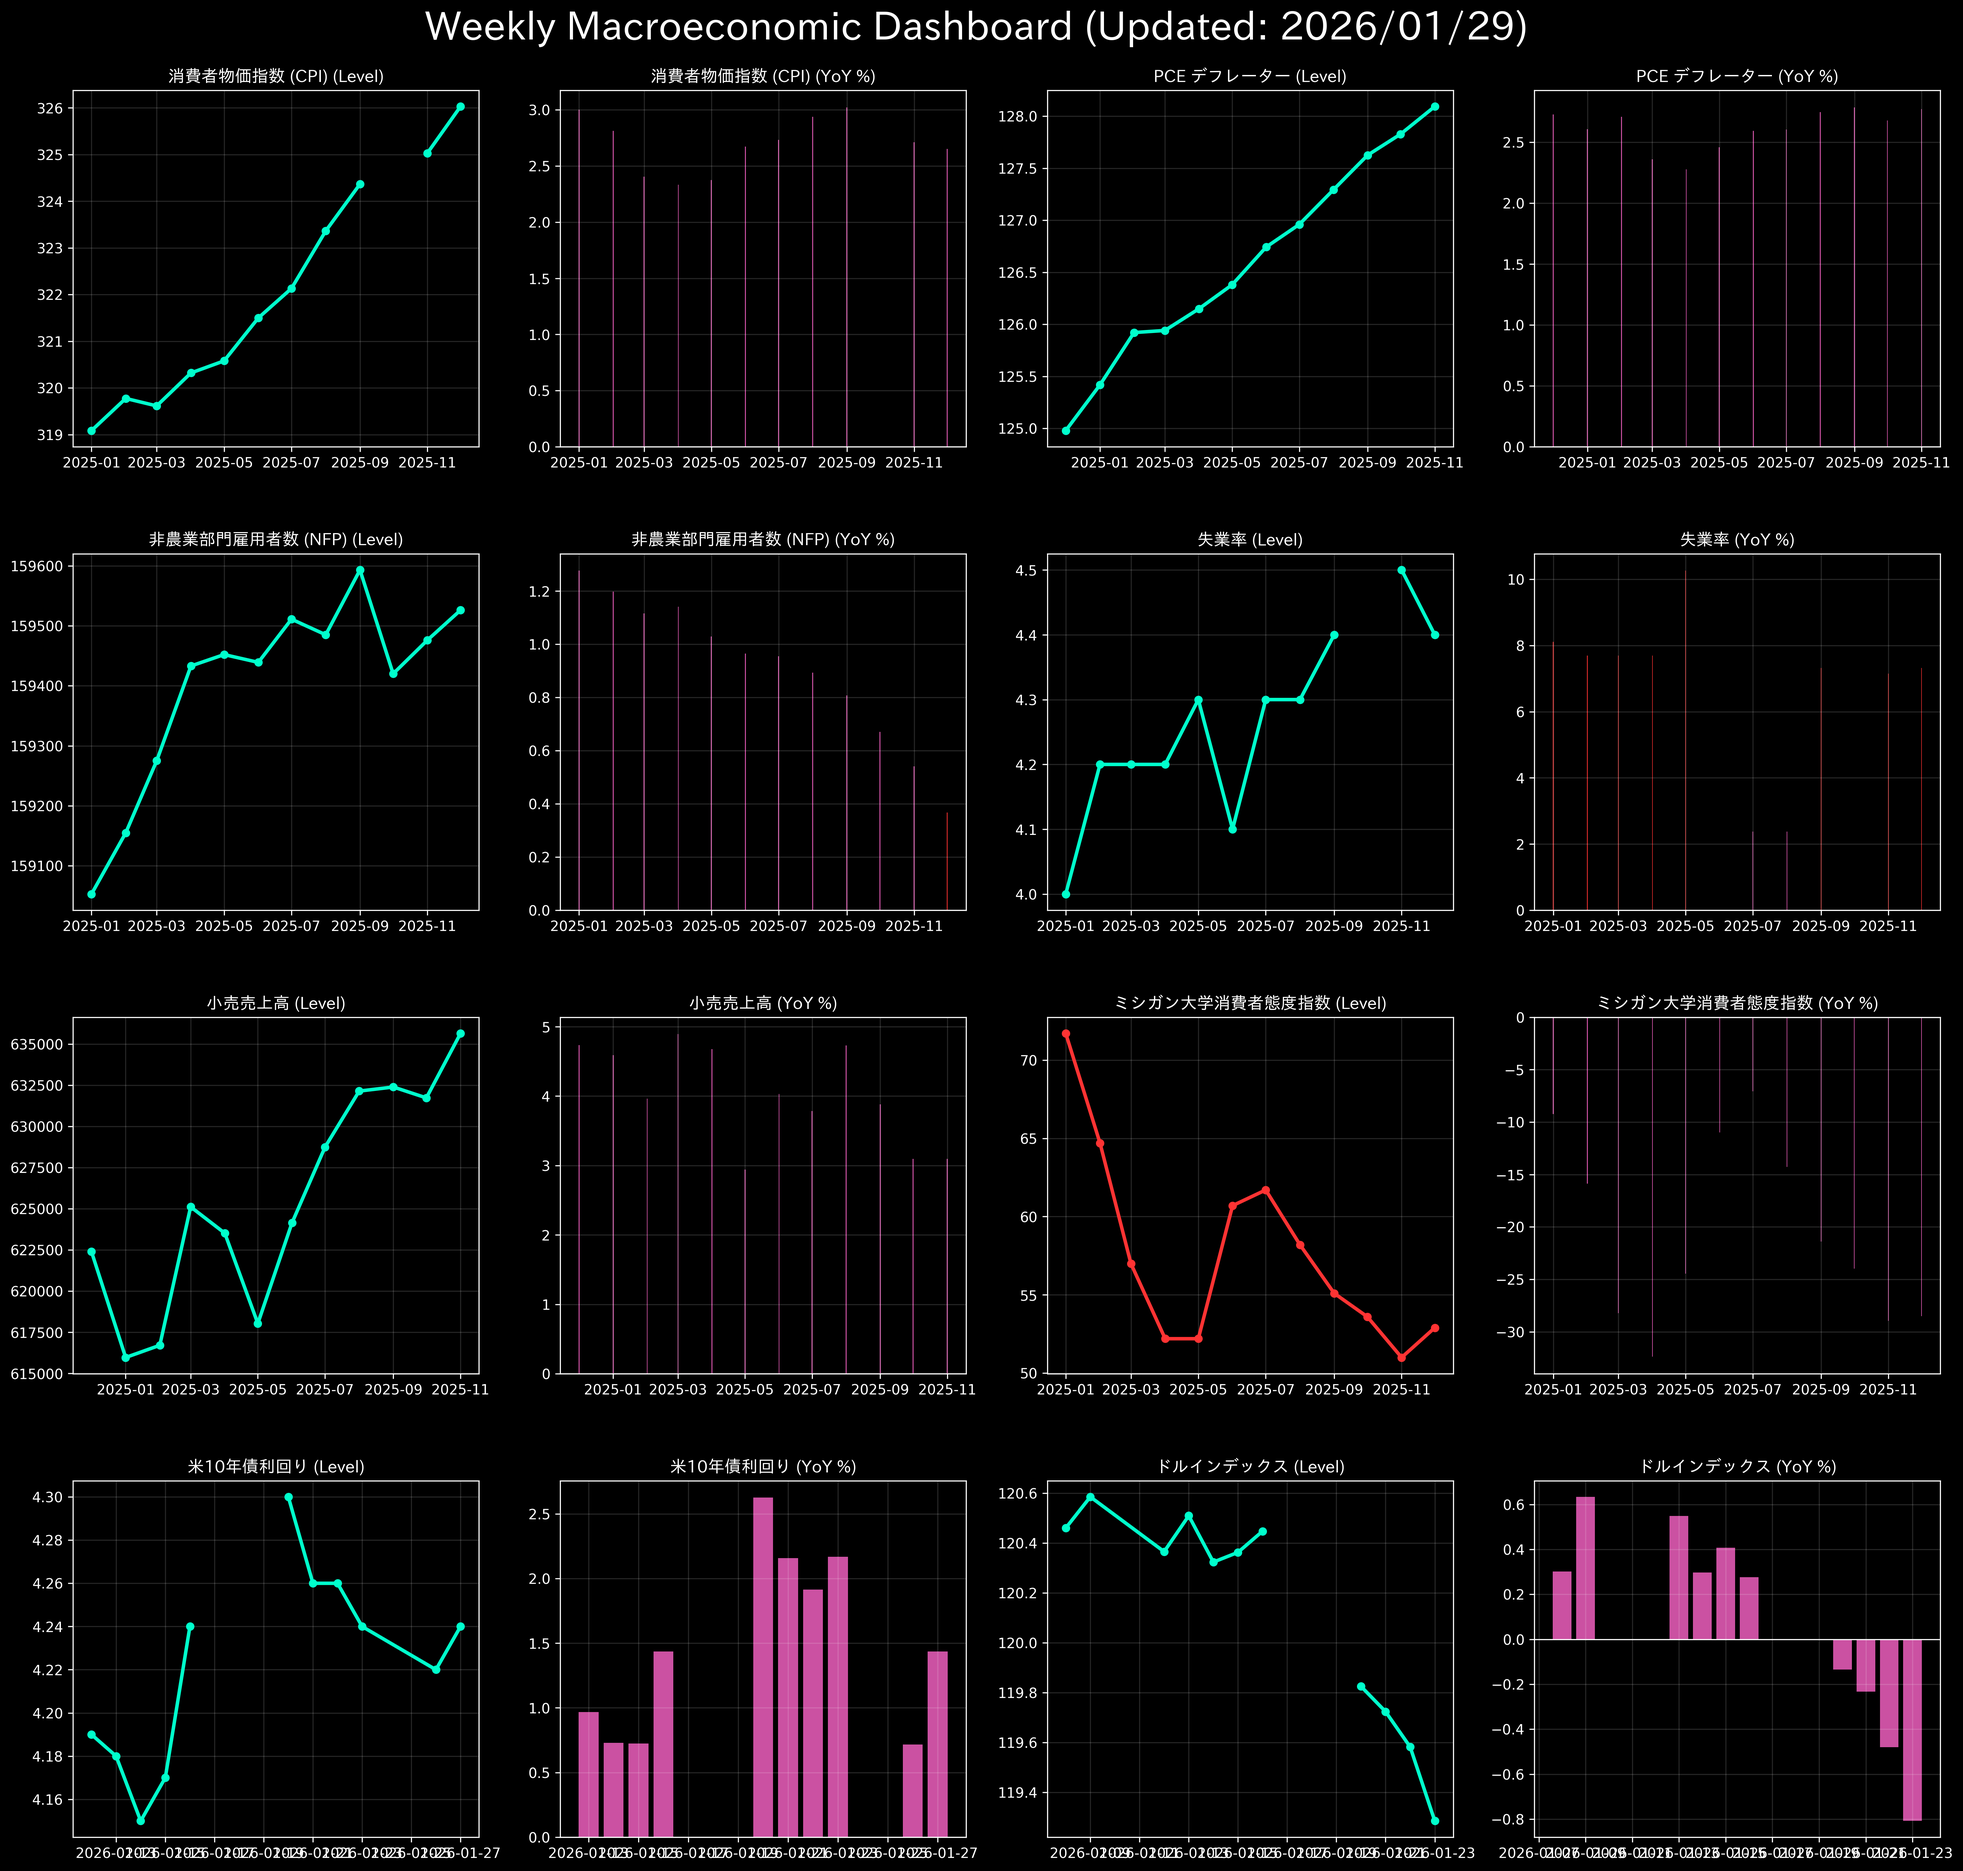
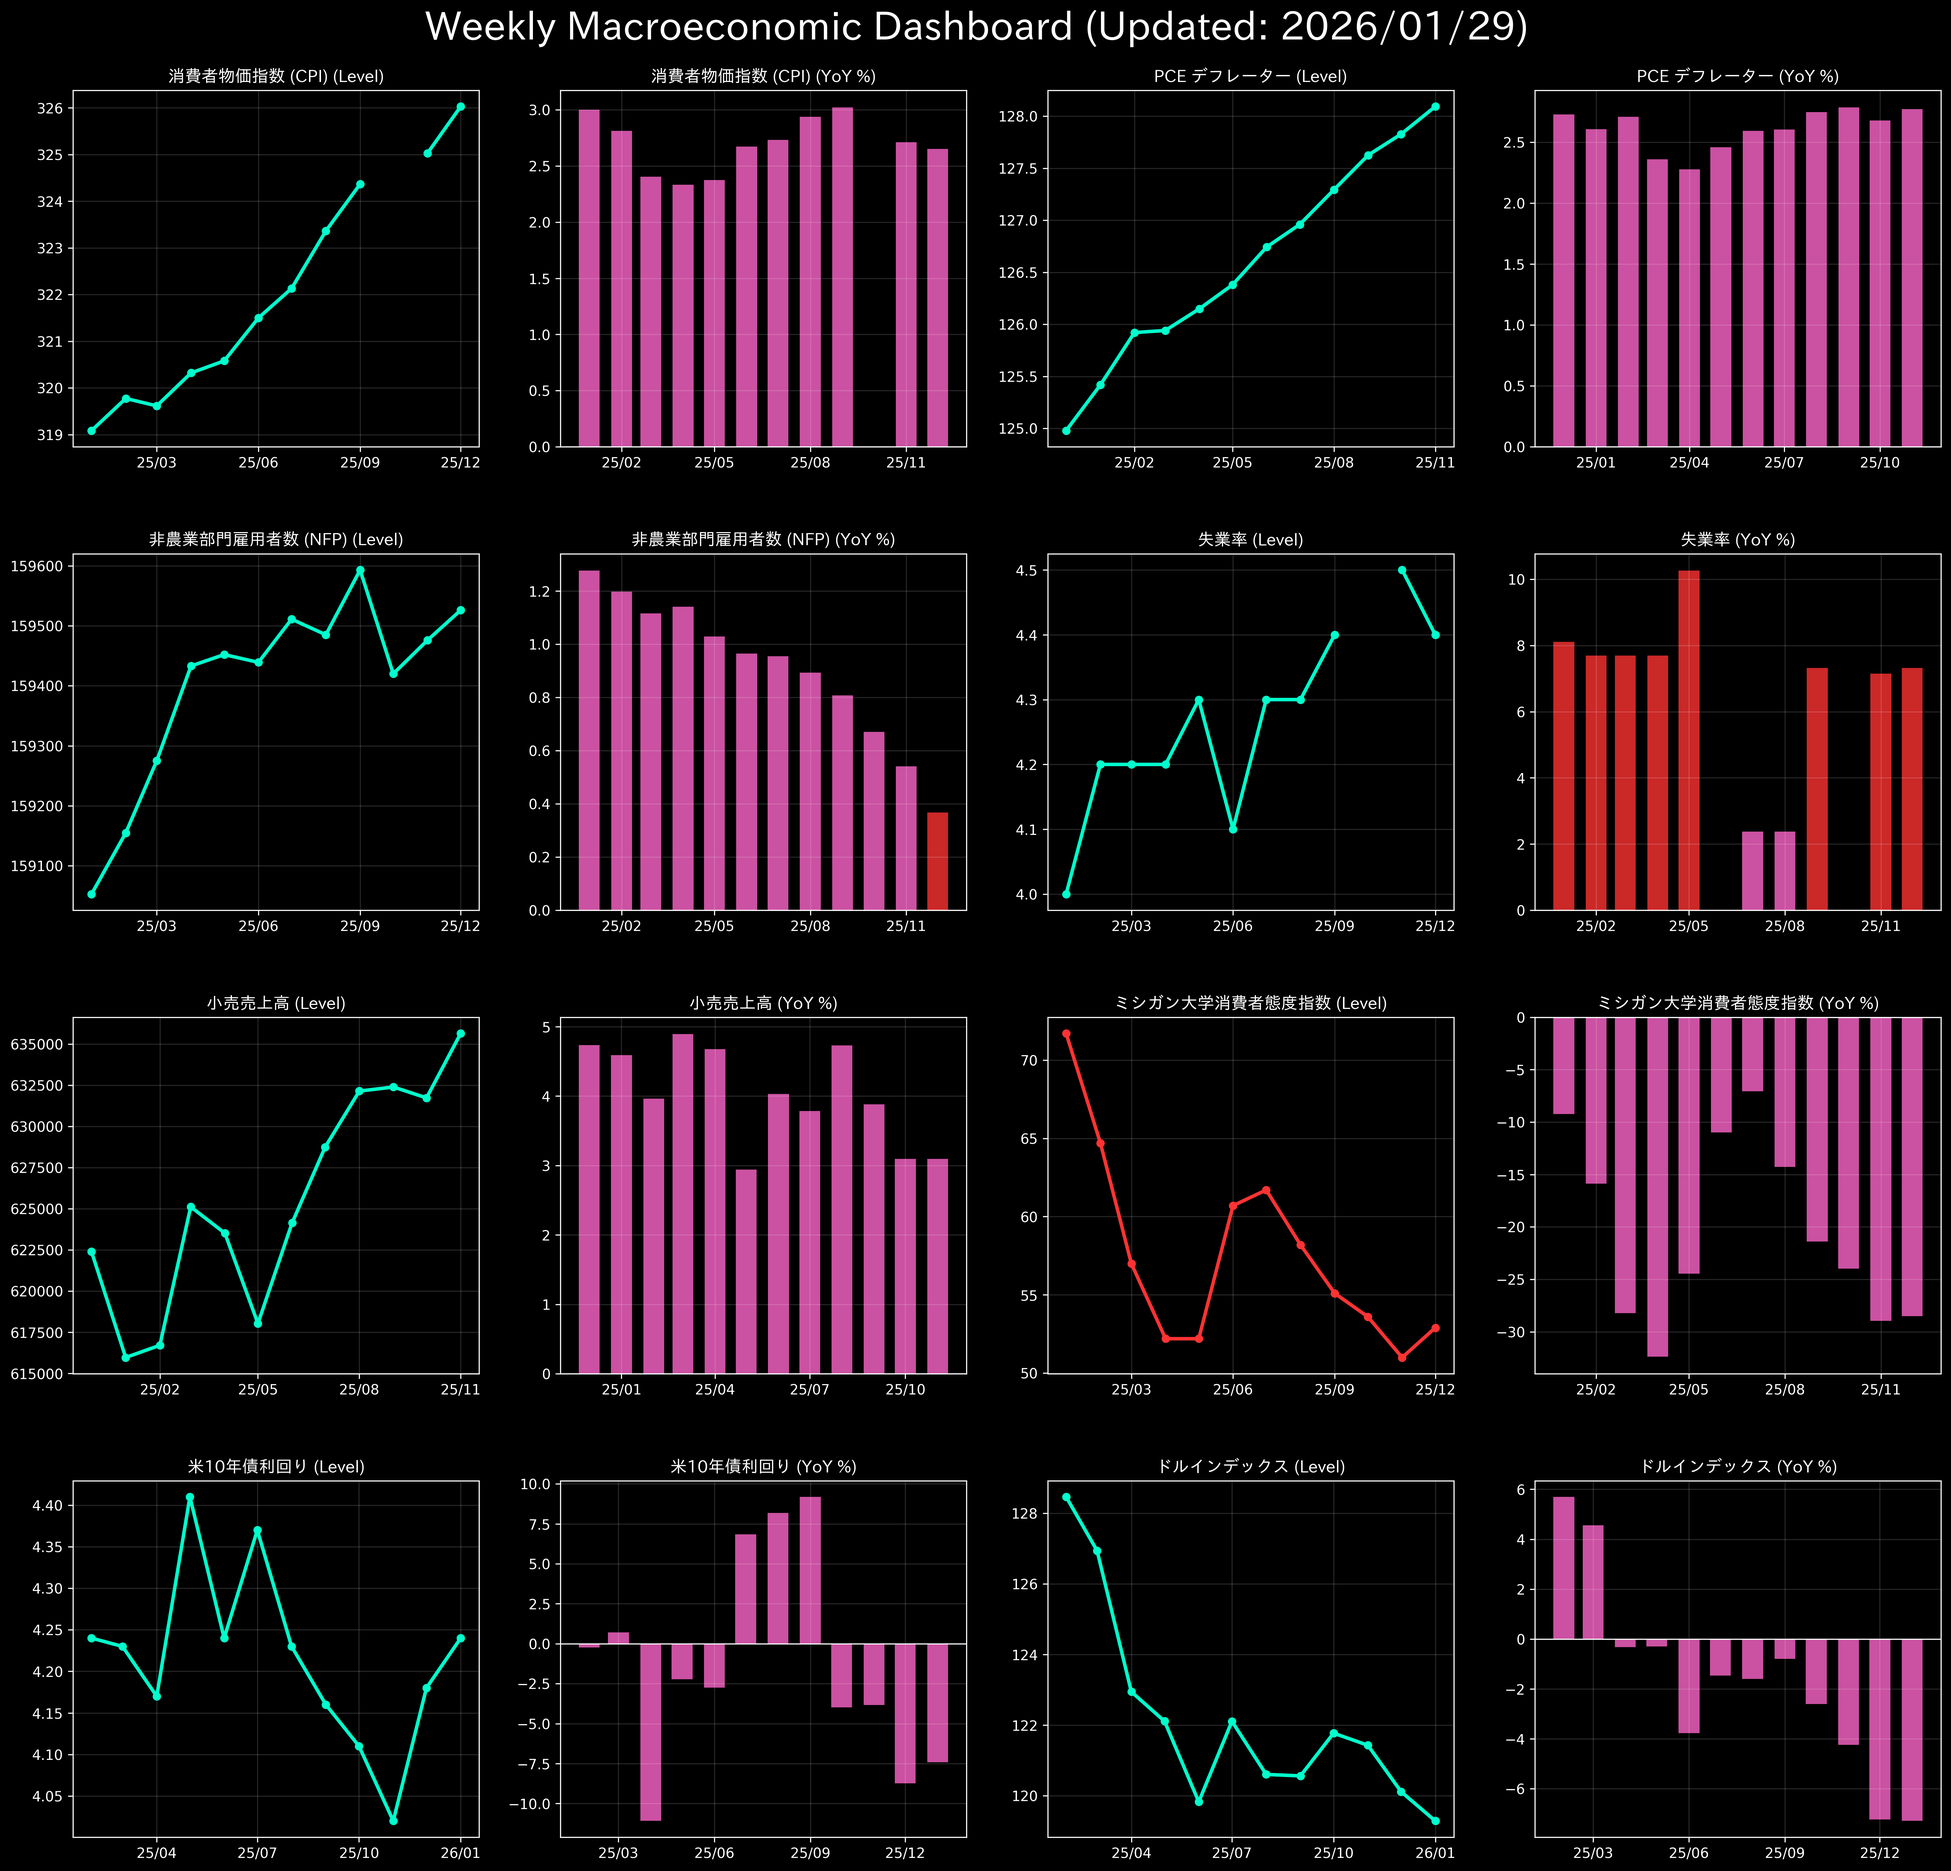
Auto-update: economic data and charts

diff --git a/output/analysis.md b/output/analysis.md
@@ -1,1 +1,1 @@
-# 【Weekly Macro Data】経済 Macro NOTE\n📅 *最終更新: 2026/01/29*\n---\n## 🚨 リセッション・アラート状況\n⚠ 雇用成長の危険な鈍化\n🚨 失業率の急上昇（リセッションの予兆）\n📉 消費者センチメントの極端な悪化\n---\n### 消費者物価指数 (CPI)\n* **最新値:** 326.03\n* **前年比:** +2.65%\n### PCE デフレーター\n* **最新値:** 128.09\n* **前年比:** +2.77%\n### 非農業部門雇用者数 (NFP)\n* **最新値:** 159,526.0\n* **前年比:** +0.37%\n### 失業率\n* **最新値:** 4.4\n* **前年比:** +7.32%\n### 小売売上高\n* **最新値:** 635,651.0\n* **前年比:** +3.10%\n### ミシガン大学消費者態度指数\n* **最新値:** 52.90\n* **前年比:** -28.51%\n### 米10年債利回り\n* **最新値:** 4.24\n* **前年比:** +1.44%\n### ドルインデックス\n* **最新値:** 119.29\n* **前年比:** -0.81%
+# 【Weekly Macro Data】経済 Macro NOTE\n📅 *最終更新: 2026/01/29*\n---\n## 🚨 リセッション・アラート状況\n⚠ 雇用成長の危険な鈍化\n🚨 失業率の急上昇（リセッションの予兆）\n📉 消費者センチメントの極端な悪化\n---\n### 消費者物価指数 (CPI)\n* **最新値:** 326.03\n* **前年比:** +2.65%\n### PCE デフレーター\n* **最新値:** 128.09\n* **前年比:** +2.77%\n### 非農業部門雇用者数 (NFP)\n* **最新値:** 159,526.0\n* **前年比:** +0.37%\n### 失業率\n* **最新値:** 4.4\n* **前年比:** +7.32%\n### 小売売上高\n* **最新値:** 635,651.0\n* **前年比:** +3.10%\n### ミシガン大学消費者態度指数\n* **最新値:** 52.90\n* **前年比:** -28.51%\n### 米10年債利回り\n* **最新値:** 4.24\n* **前年比:** -7.42%\n### ドルインデックス\n* **最新値:** 119.29\n* **前年比:** -7.29%
